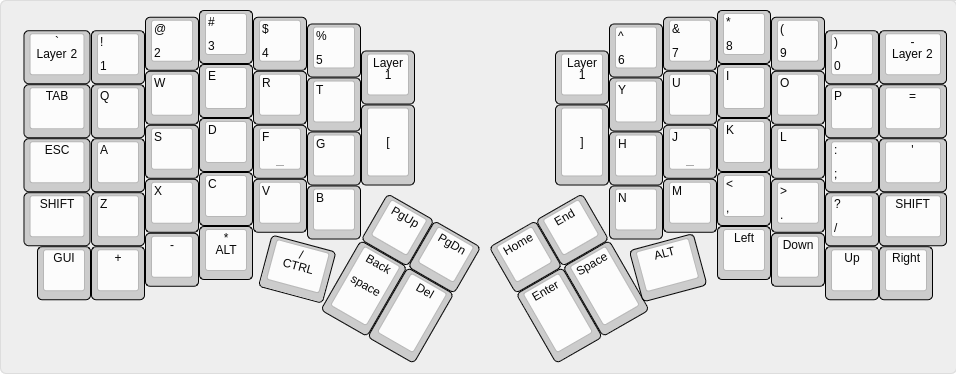
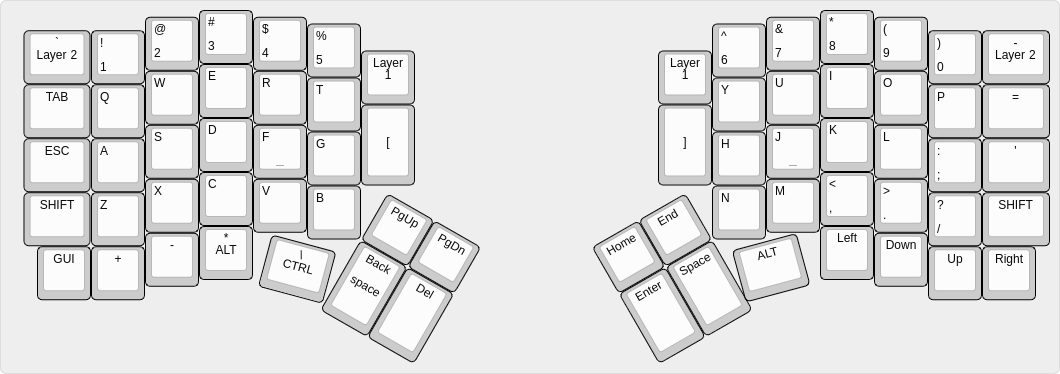
DOCS: Updated with new default layout

diff --git a/redox/README.md b/redox/README.md
@@ -425,4 +425,4 @@ $ make redox/rev1:default:avrdude
 <img src="../img/redox-layout.png" alt="Redox rev1.0 layout"/>
 </p>
 
-[KLE Layout permalink](http://www.keyboard-layout-editor.com/##@_name=Redox&author=Mattia%20Dal%20Ben&switchMount=cherry&plate:false&pcb:false%3B&@_x:3.5%3B&=%23%0A3&_x:10.5%3B&=*%0A8%3B&@_y:-0.875&x:2.5%3B&=%2F@%0A2&_x:1%3B&=$%0A4&_x:8.5%3B&=%2F&%0A7&_x:1%3B&=(%0A9%3B&@_y:-0.875&x:5.5%3B&=%25%0A5&_x:6.5%3B&=%5E%0A6%3B&@_y:-0.875&x:0.25&a:5&w:1.25%3B&=%60%0A%0A%0A%0A%0A%0ALayer%202&_a:4%3B&=!%0A1&_x:14.5%3B&=)%0A0&_a:5&w:1.25%3B&=-%0A%0A%0A%0A%0A%0ALayer%202%3B&@_y:-0.625&x:6.5%3B&=Layer%201&_x:4.5%3B&=Layer%201%3B&@_y:-0.75&x:3.5&a:4%3B&=E&_x:10.5%3B&=I%3B&@_y:-0.875&x:2.5%3B&=W&_x:1%3B&=R&_x:8.5%3B&=U&_x:1%3B&=O%3B&@_y:-0.875&x:5.5%3B&=T&_x:6.5%3B&=Y%3B&@_y:-0.875&x:0.25&a:5&w:1.25%3B&=TAB&_a:4%3B&=Q&_x:14.5%3B&=P&_a:5&w:1.25%3B&=%2F=%3B&@_y:-0.625&x:6.5&a:7&h:1.5%3B&=%5B&_x:4.5&h:1.5%3B&=%5D%3B&@_y:-0.75&x:3.5&a:4%3B&=D&_x:10.5%3B&=K%3B&@_y:-0.875&x:2.5%3B&=S&_x:1&n:true%3B&=F&_x:8.5&n:true%3B&=J&_x:1%3B&=L%3B&@_y:-0.875&x:5.5%3B&=G&_x:6.5%3B&=H%3B&@_y:-0.875&x:0.25&a:5&w:1.25%3B&=ESC&_a:4%3B&=A&_x:14.5%3B&=%2F:%0A%2F%3B&_a:5&w:1.25%3B&='%3B&@_y:-0.375&x:3.5&a:4%3B&=C&_x:10.5%3B&=%3C%0A,%3B&@_y:-0.875&x:2.5%3B&=X&_x:1%3B&=V&_x:8.5%3B&=M&_x:1%3B&=%3E%0A.%3B&@_y:-0.875&x:5.5%3B&=B&_x:6.5%3B&=N%3B&@_y:-0.875&x:0.25&a:5&w:1.25%3B&=SHIFT&_a:4%3B&=Z&_x:14.5%3B&=%3F%0A%2F%2F&_a:5&w:1.25%3B&=SHIFT%3B&@_y:-0.375&x:3.5%3B&=*%0A%0A%0A%0A%0A%0AALT&_x:10.5%3B&=Left%3B&@_y:-0.875&x:2.5%3B&=-&_x:12.5%3B&=Down%3B&@_y:-0.75&x:0.5%3B&=GUI&=+&_x:14.5%3B&=Up&=Right%3B&@_r:15&y:-2.625&x:5.75&w:1.25%3B&=%2F%2F%0A%0A%0A%0A%0A%0ACTRL%3B&@_r:30&rx:6.5&ry:4.25&y:-1%3B&=PgUp&=PgDn%3B&@_h:1.5%3B&=Back%0A%0A%0A%0A%0A%0Aspace&_h:1.5%3B&=Del%3B&@_r:-30&rx:13&y:-1&x:-2%3B&=Home&=End%3B&@_x:-2&h:1.5%3B&=Enter&_h:1.5%3B&=Space%3B&@_r:-15&rx:0&ry:0&y:7.75&x:11.75&w:1.25%3B&=ALT)
+[KLE Layout permalink](http://www.keyboard-layout-editor.com/##@_name=Redox&author=Mattia%20Dal%20Ben&switchMount=cherry&plate:false&pcb:false%3B&@_x:3.5%3B&=%23%0A3&_x:10.5%3B&=*%0A8%3B&@_y:-0.875&x:2.5%3B&=%2F@%0A2&_x:1%3B&=$%0A4&_x:8.5%3B&=%2F&%0A7&_x:1%3B&=(%0A9%3B&@_y:-0.875&x:5.5%3B&=%25%0A5&_x:6.5%3B&=%5E%0A6%3B&@_y:-0.875&x:0.25&a:5&w:1.25%3B&=%60%0A%0A%0A%0A%0A%0ALayer%202&_a:4%3B&=!%0A1&_x:14.5%3B&=)%0A0&_a:5&w:1.25%3B&=-%0A%0A%0A%0A%0A%0ALayer%202%3B&@_y:-0.625&x:6.5%3B&=Layer%201&_x:4.5%3B&=Layer%201%3B&@_y:-0.75&x:3.5&a:4%3B&=E&_x:10.5%3B&=I%3B&@_y:-0.875&x:2.5%3B&=W&_x:1%3B&=R&_x:8.5%3B&=U&_x:1%3B&=O%3B&@_y:-0.875&x:5.5%3B&=T&_x:6.5%3B&=Y%3B&@_y:-0.875&x:0.25&a:5&w:1.25%3B&=TAB&_a:4%3B&=Q&_x:14.5%3B&=P&_a:5&w:1.25%3B&=%2F=%3B&@_y:-0.625&x:6.5&a:7&h:1.5%3B&=%5B&_x:4.5&h:1.5%3B&=%5D%3B&@_y:-0.75&x:3.5&a:4%3B&=D&_x:10.5%3B&=K%3B&@_y:-0.875&x:2.5%3B&=S&_x:1&n:true%3B&=F&_x:8.5&n:true%3B&=J&_x:1%3B&=L%3B&@_y:-0.875&x:5.5%3B&=G&_x:6.5%3B&=H%3B&@_y:-0.875&x:0.25&a:5&w:1.25%3B&=ESC&_a:4%3B&=A&_x:14.5%3B&=%2F:%0A%2F%3B&_a:5&w:1.25%3B&='%3B&@_y:-0.375&x:3.5&a:4%3B&=C&_x:10.5%3B&=%3C%0A,%3B&@_y:-0.875&x:2.5%3B&=X&_x:1%3B&=V&_x:8.5%3B&=M&_x:1%3B&=%3E%0A.%3B&@_y:-0.875&x:5.5%3B&=B&_x:6.5%3B&=N%3B&@_y:-0.875&x:0.25&a:5&w:1.25%3B&=SHIFT&_a:4%3B&=Z&_x:14.5%3B&=%3F%0A%2F%2F&_a:5&w:1.25%3B&=SHIFT%3B&@_y:-0.375&x:3.5%3B&=*%0A%0A%0A%0A%0A%0AALT&_x:10.5%3B&=Left%3B&@_y:-0.875&x:2.5%3B&=-&_x:12.5%3B&=Down%3B&@_y:-0.75&x:0.5%3B&=GUI&=+&_x:14.5%3B&=Up&=Right%3B&@_r:15&y:-2.625&x:5.75&w:1.25%3B&=%5C%0A%0A%0A%0A%0A%0ACTRL%3B&@_r:30&rx:6.5&ry:4.25&y:-1%3B&=PgUp&=PgDn%3B&@_h:1.5%3B&=Back%0A%0A%0A%0A%0A%0Aspace&_h:1.5%3B&=Del%3B&@_r:-30&rx:13&y:-1&x:-2%3B&=Home&=End%3B&@_x:-2&h:1.5%3B&=Enter&_h:1.5%3B&=Space%3B&@_r:-15&rx:0&ry:0&y:7.75&x:11.75&w:1.25%3B&=ALT)
